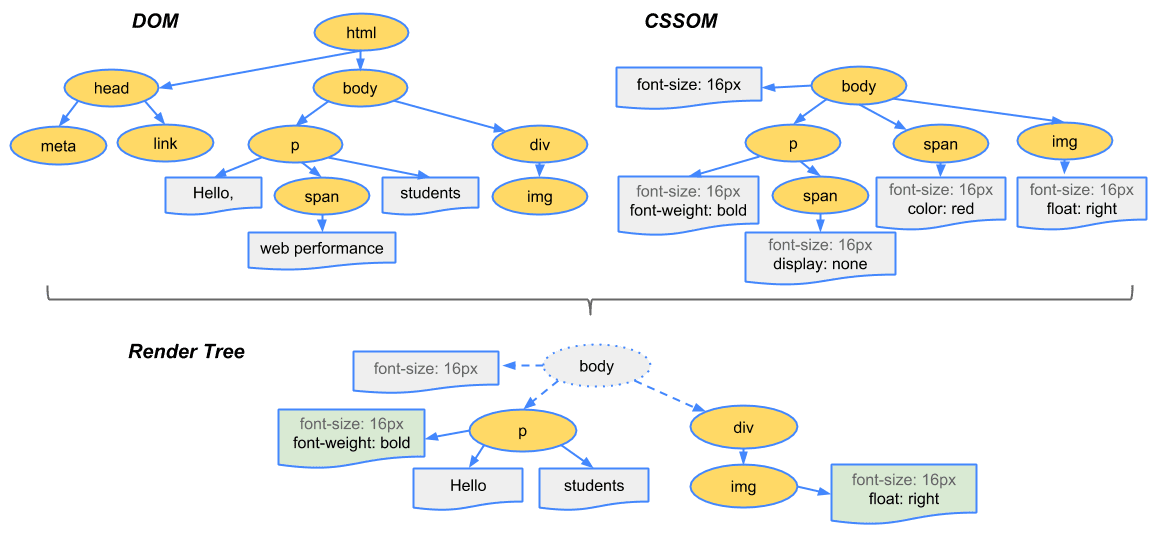
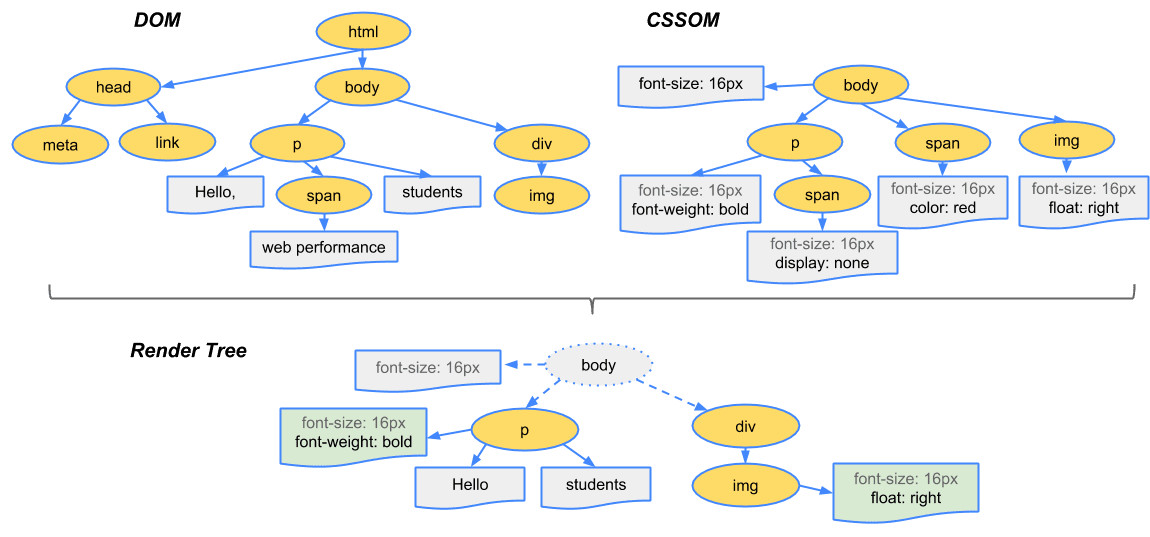
Add background

diff --git a/docs/performance.md b/docs/performance.md
@@ -24,7 +24,7 @@ Voor frontenders heeft performance alles te maken met hoe browsers websites op h
 
 Zodra de render tree bekend is, kan een browser pixels gaan tekenen. En hoe eerder de browser pixels heeft getekend, des te sneller de site voelt. Oftewel: hoe eerder de browser de render tree kan maken, des te sneller de site voelt. Oftewel: hoe eerder de browser de DOM en de CSSOM heeft kunnen maken, des te sneller de site voelt. Oftewel: hoe eerder de browser de HTML en CSS tot z'n beschikking heeft, des te sneller de site voelt. Klinkt heel logisch, maar hier worden heel veel fouten mee gemaakt.
 
-<img width="800" height="373" src="dom-cssom-render-tree.png" style="background:#fff">
+<img width="800" height="373" src="dom-cssom-render-tree.png">
 
 ### Critical rendering path
 
